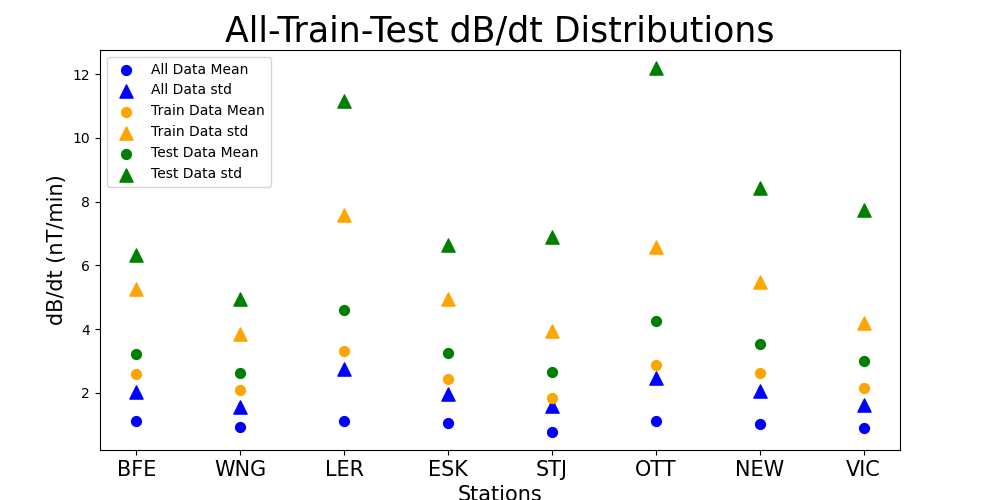
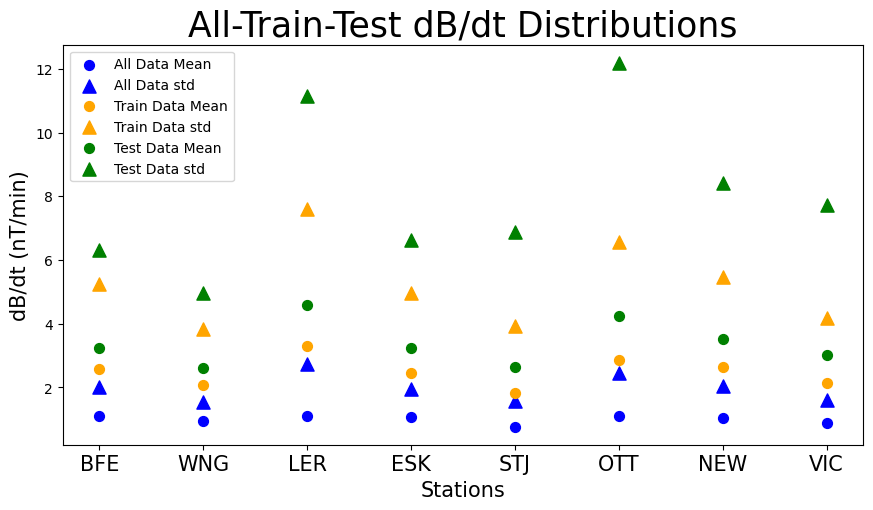
updating plots

diff --git a/data_distributions.py b/data_distributions.py
@@ -400,7 +400,7 @@ def plotting_data_distributions(all_data, train_data, test_data):
 	plt.yticks(fontsize='10')						# making the y ticks a bit bigger. They're a bit more important
 	plt.legend(fontsize='10', loc='upper left')
 
-	plt.savefig('plots/data_distribution.png')
+	plt.savefig('plots/data_distribution.png', bbox_inches='tight')
 
 
 
